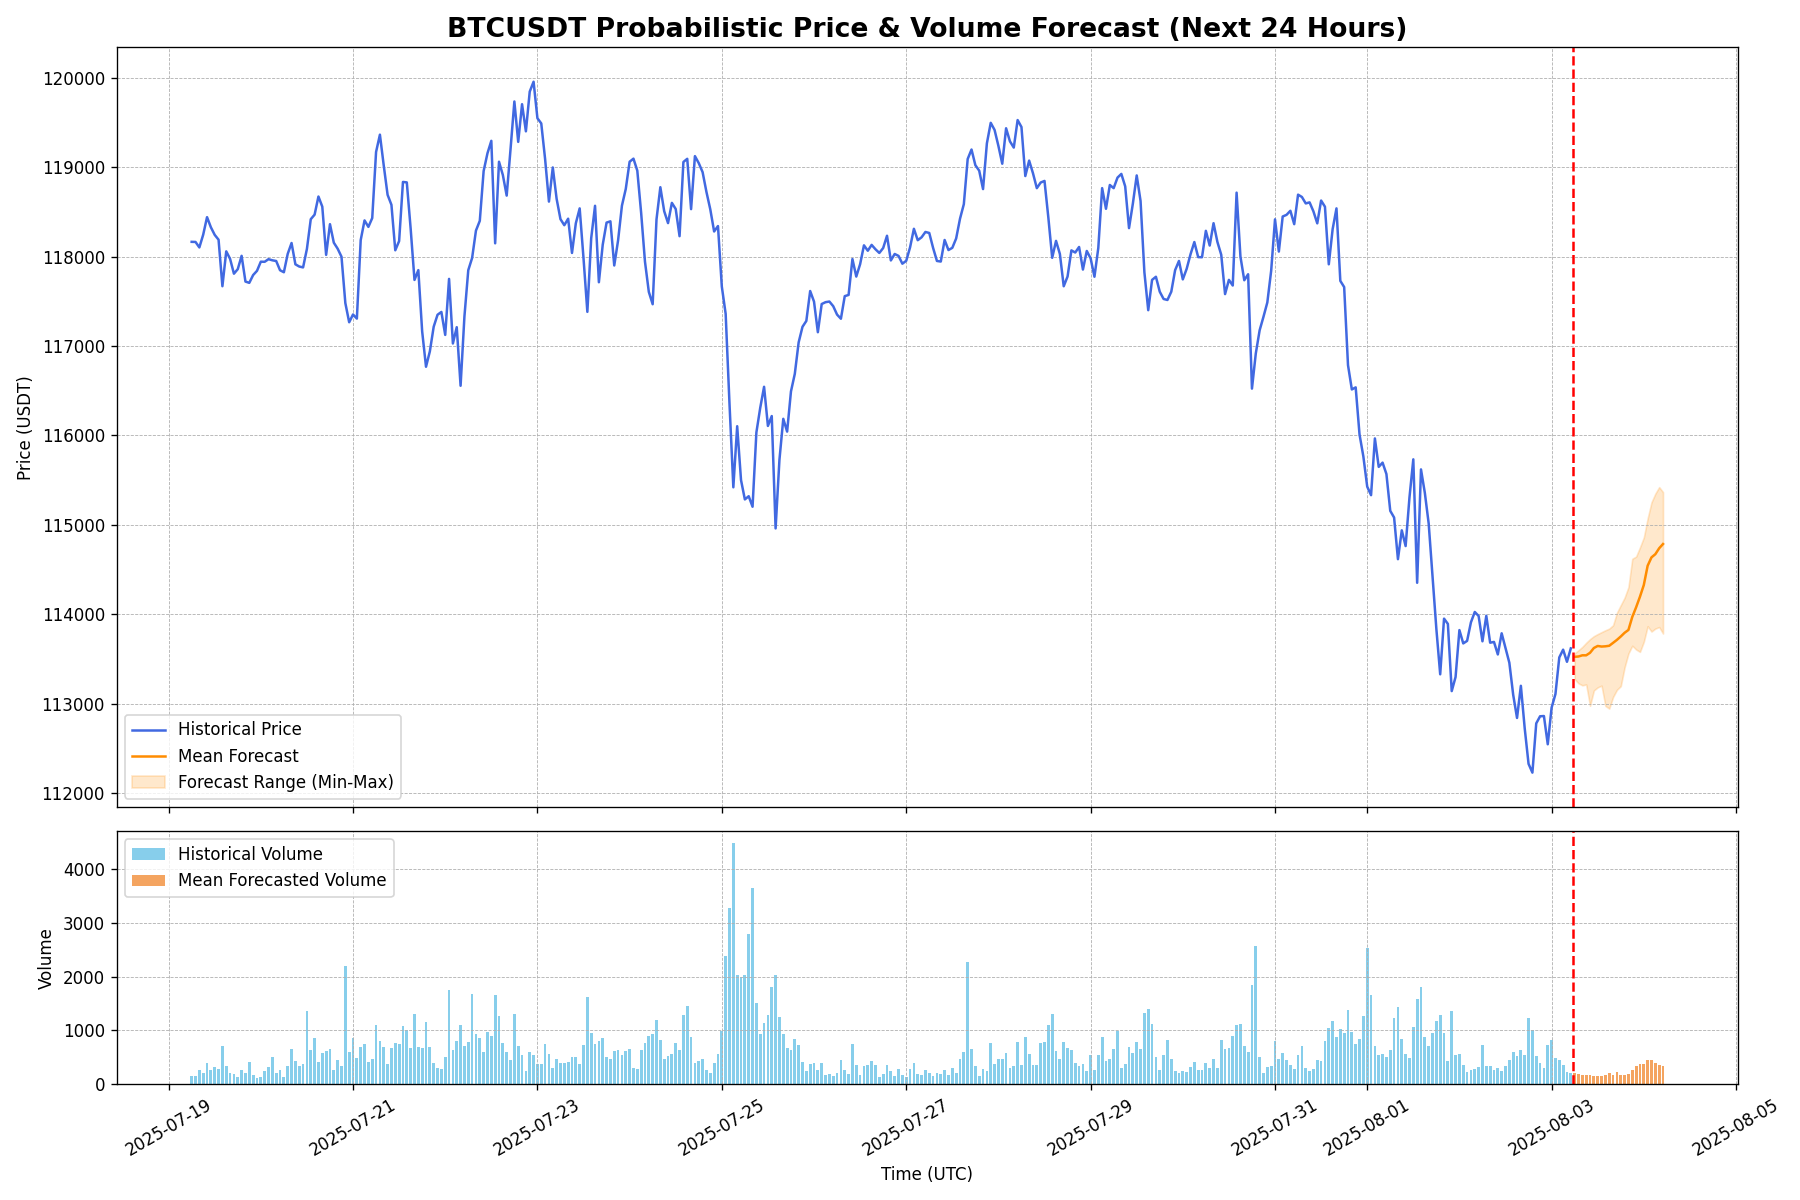
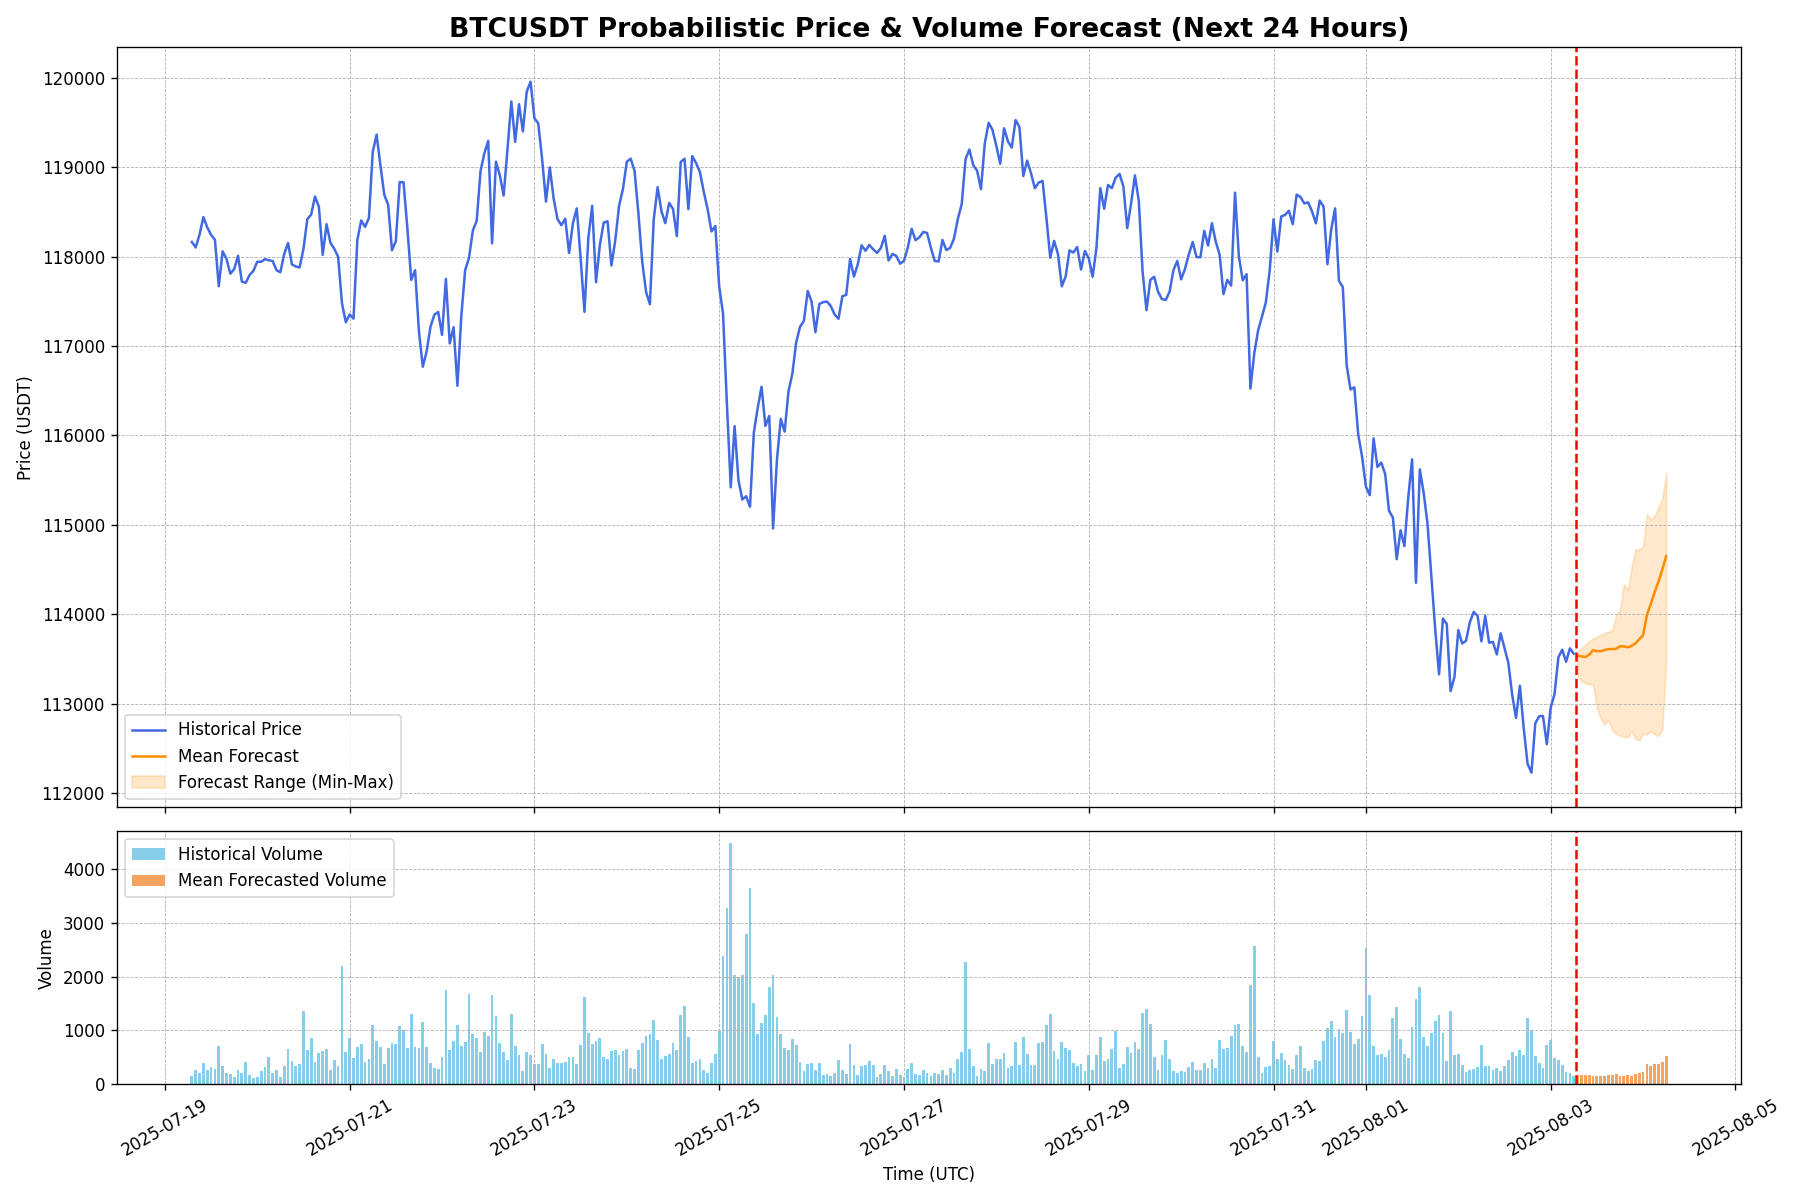
Auto-update forecast for 2025-08-03 07:05 UTC

diff --git a/index.html b/index.html
@@ -22,19 +22,19 @@
         <section id="live-dashboard">
             <h2>Live BTC/USDT Forecast Dashboard</h2>
             <div class="metadata">
-                <span>Last Updated (UTC): <strong id="update-time">2025-08-03 06:05:56</strong></span>
+                <span>Last Updated (UTC): <strong id="update-time">2025-08-03 07:05:56</strong></span>
                 <span>Data Source: Binance | Interval: 1-Hour</span>
             </div>
 
             <div class="metrics-container">
                 <div class="metric-card">
                     <h3>Upside Probability (Next 24h)</h3>
-                    <p class="metric-value" id="upside-prob">100.0%</p>
+                    <p class="metric-value" id="upside-prob">96.7%</p>
                     <div class="metric-desc">The model's confidence that the price in 24 hours will be higher than the last known price.</div>
                 </div>
                 <div class="metric-card">
                     <h3>Volatility Amplification (Next 24h)</h3>
-                    <p class="metric-value" id="vol-amp-prob">13.3%</p>
+                    <p class="metric-value" id="vol-amp-prob">23.3%</p>
                     <div class="metric-desc">The probability that predicted volatility over the next 24h will exceed recent historical volatility.</div>
                 </div>
             </div>
